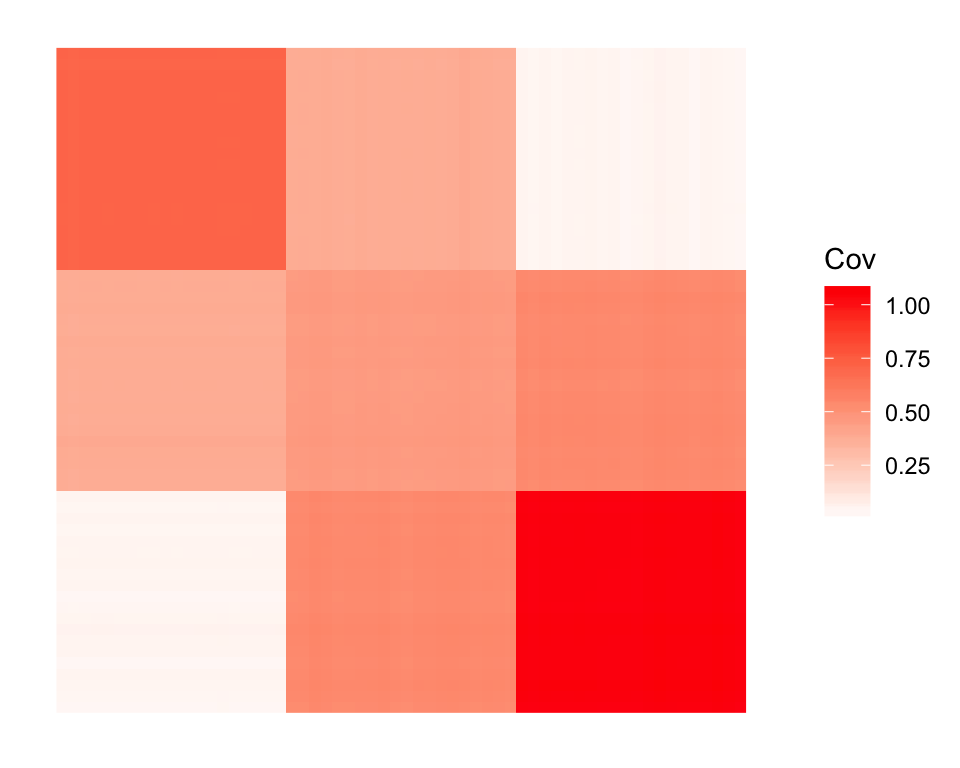
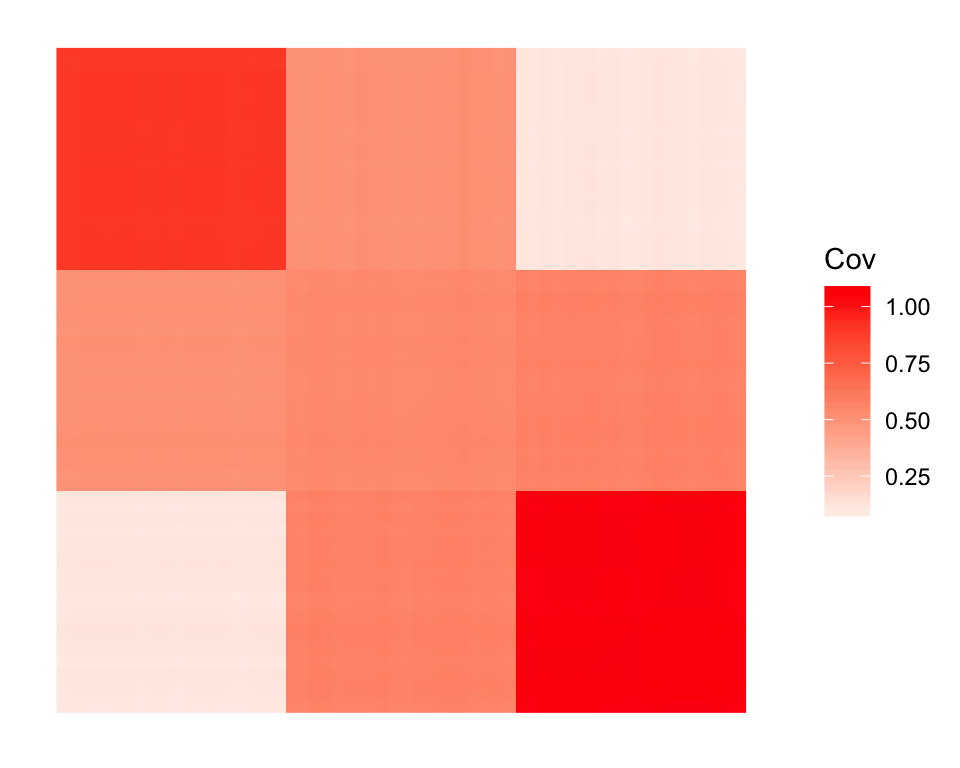
Build site.

diff --git a/docs/admix_sim1.html b/docs/admix_sim1.html
@@ -541,10 +541,10 @@ This reproducible <a href="http://rmarkdown.rstudio.com">R Markdown</a> analysis
 <div class="panel panel-default">
 <div class="panel-heading">
 <p class="panel-title">
-<a data-toggle="collapse" data-parent="#workflowr-checks" href="#strongRepositoryversionstrongahrefhttpsgithubcomjhmarcusdriftworkflowtree8f061f63fe726a3f1e0c9459e16fee17f76c52a4targetblank8f061f6a"> <span class="glyphicon glyphicon-ok text-success" aria-hidden="true"></span> <strong>Repository version:</strong> <a href="https://github.com/jhmarcus/drift-workflow/tree/8f061f63fe726a3f1e0c9459e16fee17f76c52a4" target="_blank">8f061f6</a> </a>
+<a data-toggle="collapse" data-parent="#workflowr-checks" href="#strongRepositoryversionstrongahrefhttpsgithubcomjhmarcusdriftworkflowtree6138c6ec3939f33d2b5af5e1959ac8ac5ce83f07targetblank6138c6ea"> <span class="glyphicon glyphicon-ok text-success" aria-hidden="true"></span> <strong>Repository version:</strong> <a href="https://github.com/jhmarcus/drift-workflow/tree/6138c6ec3939f33d2b5af5e1959ac8ac5ce83f07" target="_blank">6138c6e</a> </a>
 </p>
 </div>
[2 lines of base64/hex data omitted]
 <div class="panel-body">
 <p>
 Great! You are using Git for version control. Tracking code development and connecting the code version to the results is critical for reproducibility. The version displayed above was the version of the Git repository at the time these results were generated. <br><br> Note that you need to be careful to ensure that all relevant files for the analysis have been committed to Git prior to generating the results (you can use <code>wflow_publish</code> or <code>wflow_git_commit</code>). workflowr only checks the R Markdown file, but you know if there are other scripts or data files that it depends on. Below is the status of the Git repository when the results were generated:
@@ -555,6 +555,9 @@ Ignored files:
     Ignored:    .Rhistory
     Ignored:    .Rproj.user/
     Ignored:    docs/.DS_Store
+
+Untracked files:
+    Untracked:  analysis/admix_sim2.Rmd
 
 Unstaged changes:
     Modified:   drift-workflow.Rproj
@@ -596,6 +599,40 @@ Message
 </tr>
 </thead>
 <tbody>
+<tr>
+<td>
+Rmd
+</td>
+<td>
+<a href="https://github.com/jhmarcus/drift-workflow/blob/6138c6ec3939f33d2b5af5e1959ac8ac5ce83f07/analysis/admix_sim1.Rmd" target="_blank">6138c6e</a>
+</td>
+<td>
+Jason Willwerscheid
+</td>
+<td>
+2020-01-10
+</td>
+<td>
+correct cov calculation
+</td>
+</tr>
+<tr>
+<td>
+html
+</td>
+<td>
+<a href="https://rawcdn.githack.com/jhmarcus/drift-workflow/fe3a7978a0090e2537388ee76cfa27a255b6fcfb/docs/admix_sim1.html" target="_blank">fe3a797</a>
+</td>
+<td>
+Jason Willwerscheid
+</td>
+<td>
+2020-01-10
+</td>
+<td>
+Build site.
+</td>
+</tr>
 <tr>
 <td>
 Rmd
@@ -663,6 +700,43 @@ workflowr::wflow_publish(“analysis/admix_sim1.Rmd”)
 })</code></pre>
 <p>I want to do a series of simulations to see whether <code>driftr</code> can handle very simple admixture events. I start with the simplest event I could imagine: allow two populations to drift until time <span class="math inline">\(t\)</span>, admix them in equal proportions (still at time <span class="math inline">\(t\)</span>), and then terminate immediately. Means for Populations 1 and 3 (the non-admixed populations) will be independent, while means for Population 2 will simply be averaged from the means for Populations 1 and 3:</p>
 <p><img src="assets/admix_fig1.png" width="400" height="400" style="display: block; margin: auto;" /></p>
+<p>
+<button type="button" class="btn btn-default btn-xs btn-workflowr btn-workflowr-fig" data-toggle="collapse" data-target="#fig-admix_fig1">
+Past versions of admix_fig1.png
+</button>
+</p>
+<div id="fig-admix_fig1" class="collapse">
+<div class="table-responsive">
+<table class="table table-condensed table-hover">
+<thead>
+<tr>
+<th>
+Version
+</th>
+<th>
+Author
+</th>
+<th>
+Date
+</th>
+</tr>
+</thead>
+<tbody>
+<tr>
+<td>
+<a href="https://github.com/jhmarcus/drift-workflow/blob/be4c90ad5b3c8fc49cfb864ceabb75126e9433b8/docs/assets/admix_fig1.png" target="_blank">be4c90a</a>
+</td>
+<td>
+Jason Willwerscheid
+</td>
+<td>
+2020-01-10
+</td>
+</tr>
+</tbody>
+</table>
+</div>
+</div>
 <p>The covariance matrix appears as follows:</p>
 <pre class="r"><code>set.seed(666)
 simple.admix &lt;- admix_graph_sim(n_per_pop = 20, p = 500)
@@ -785,6 +859,17 @@ Date
 <tbody>
 <tr>
 <td>
+<a href="https://github.com/jhmarcus/drift-workflow/blob/fe3a7978a0090e2537388ee76cfa27a255b6fcfb/docs/figure/admix_sim1.Rmd/fl.g-2.png" target="_blank">fe3a797</a>
+</td>
+<td>
+Jason Willwerscheid
+</td>
+<td>
+2020-01-10
+</td>
+</tr>
+<tr>
+<td>
 <a href="https://github.com/jhmarcus/drift-workflow/blob/65769ebd63e149824951e0bcc74154bf7c04eb3a/docs/figure/admix_sim1.Rmd/fl.g-2.png" target="_blank">65769eb</a>
 </td>
 <td>
@@ -879,6 +964,17 @@ Date
 <tbody>
 <tr>
 <td>
+<a href="https://github.com/jhmarcus/drift-workflow/blob/fe3a7978a0090e2537388ee76cfa27a255b6fcfb/docs/figure/admix_sim1.Rmd/fl.b-2.png" target="_blank">fe3a797</a>
+</td>
+<td>
+Jason Willwerscheid
+</td>
+<td>
+2020-01-10
+</td>
+</tr>
+<tr>
+<td>
 <a href="https://github.com/jhmarcus/drift-workflow/blob/65769ebd63e149824951e0bcc74154bf7c04eb3a/docs/figure/admix_sim1.Rmd/fl.b-2.png" target="_blank">65769eb</a>
 </td>
 <td>
@@ -967,7 +1063,7 @@ Jason Willwerscheid
 </table>
 </div>
 </div>
-<pre class="r"><code>plot_cov(drift.res$EL * rep(drift.res$prior_s2, each = 60))</code></pre>
+<pre class="r"><code>plot_cov(drift.res$EL * rep(sqrt(drift.res$prior_s2), each = 60))</code></pre>
 <p><img src="figure/admix_sim1.Rmd/drift.2-2.png" width="480" style="display: block; margin: auto;" /></p>
 <p>
 <button type="button" class="btn btn-default btn-xs btn-workflowr btn-workflowr-fig" data-toggle="collapse" data-target="#fig-drift.2-2">
@@ -991,6 +1087,17 @@ Date
 </tr>
 </thead>
 <tbody>
+<tr>
+<td>
+<a href="https://github.com/jhmarcus/drift-workflow/blob/fe3a7978a0090e2537388ee76cfa27a255b6fcfb/docs/figure/admix_sim1.Rmd/drift.2-2.png" target="_blank">fe3a797</a>
+</td>
+<td>
+Jason Willwerscheid
+</td>
+<td>
+2020-01-10
+</td>
+</tr>
 <tr>
 <td>
 <a href="https://github.com/jhmarcus/drift-workflow/blob/65769ebd63e149824951e0bcc74154bf7c04eb3a/docs/figure/admix_sim1.Rmd/drift.2-2.png" target="_blank">65769eb</a>
@@ -1081,7 +1188,7 @@ Jason Willwerscheid
 </table>
 </div>
 </div>
-<pre class="r"><code>plot_cov(drift.res$EL * rep(drift.res$prior_s2, each = 60))</code></pre>
+<pre class="r"><code>plot_cov(drift.res$EL * rep(sqrt(drift.res$prior_s2), each = 60))</code></pre>
 <p><img src="figure/admix_sim1.Rmd/drift.3-2.png" width="480" style="display: block; margin: auto;" /></p>
 <p>
 <button type="button" class="btn btn-default btn-xs btn-workflowr btn-workflowr-fig" data-toggle="collapse" data-target="#fig-drift.3-2">
@@ -1105,6 +1212,17 @@ Date
 </tr>
 </thead>
 <tbody>
+<tr>
+<td>
+<a href="https://github.com/jhmarcus/drift-workflow/blob/fe3a7978a0090e2537388ee76cfa27a255b6fcfb/docs/figure/admix_sim1.Rmd/drift.3-2.png" target="_blank">fe3a797</a>
+</td>
+<td>
+Jason Willwerscheid
+</td>
+<td>
+2020-01-10
+</td>
+</tr>
 <tr>
 <td>
 <a href="https://github.com/jhmarcus/drift-workflow/blob/65769ebd63e149824951e0bcc74154bf7c04eb3a/docs/figure/admix_sim1.Rmd/drift.3-2.png" target="_blank">65769eb</a>
